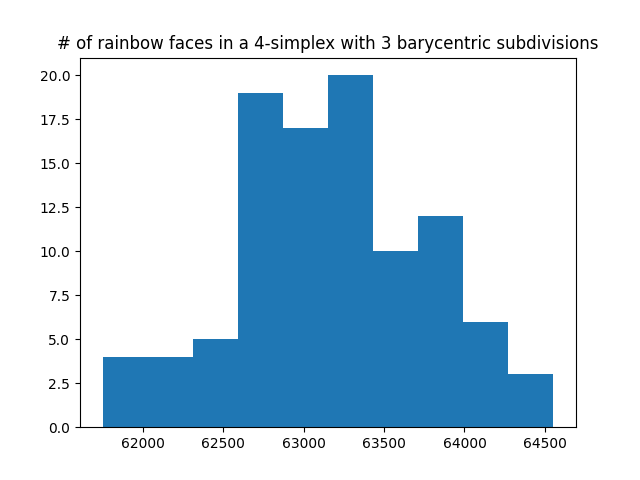
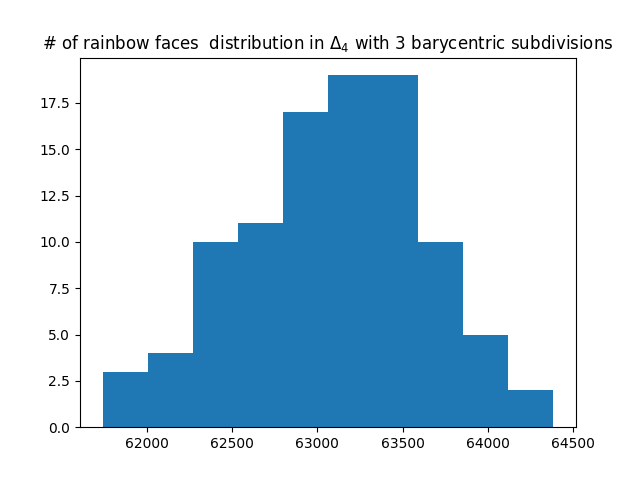
histogram update

diff --git a/stat_guy.py b/stat_guy.py
@@ -66,7 +66,7 @@ print("limiting mean", limiting_p)
 print("limiting stdev", limiting_stdev)
 
 plt.hist(rainbow_face_count)
-plt.title(f"# of rainbow faces in a {args.dim}-simplex with {sub_divisions} barycentric subdivisions")
+plt.title(f"# of rainbow faces  distribution in $\\Delta_{args.dim}$ with {sub_divisions} barycentric subdivisions")
 # max_cnt = np.max(rainbow_face_count)
 # plt.bar(np.arange(max_cnt) + 1, [np.sum(rainbow_face_count == i) for i in range(1, 1 + max_cnt)])
 if args.save: